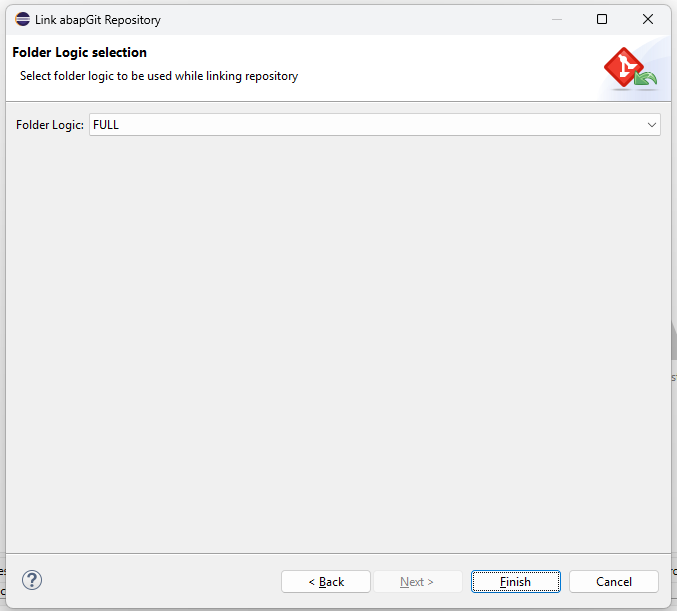
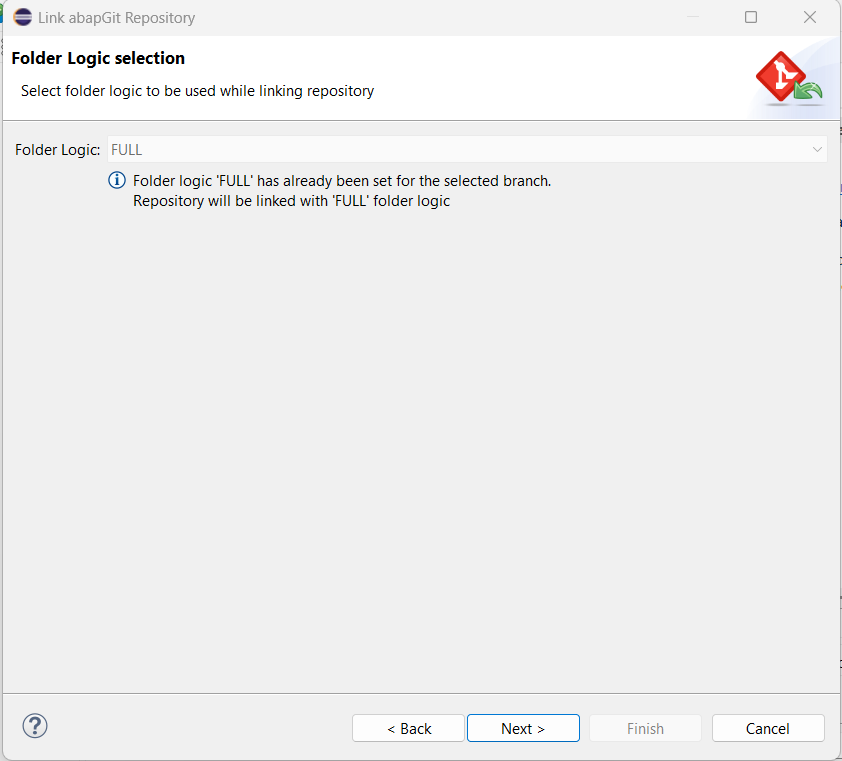
Documentation

diff --git a/README.md b/README.md
@@ -12,27 +12,37 @@ You can install the ABAP AI tools Cloud REST API into your ABAP Cloud system usi
 2. Open the abapGit Repositories view and click the button with the plus sign (Link new abapGit Repository...):
 
 <p style="margin-left: 50px">
-   <img src="docs/images/install1.png" alt="Installation Step 1" width="800px">
+   <img src="docs/images/install1.png" alt="Installation Step 2" width="800px">
 </p>
 
 3. Enter the URL `https://github.com/christianjianelli/yaai_cloud_rest.git`:
 
 <p style="margin-left: 50px">
-   <img src="docs/images/install2.png" alt="Installation Step 2" width="500px">
+   <img src="docs/images/install2.png" alt="Installation Step 3" width="500px">
 </p>
 
 4. Specify the package:
 
 <p style="margin-left: 50px">
-   <img src="docs/images/install3.png" alt="Installation Step 3" width="500px">
+   <img src="docs/images/install3.png" alt="Installation Step 4" width="500px">
 </p>
 
-5. Click the **Finish** button:
+5. Click the **Next** button:
 
 <p style="margin-left: 50px">
-   <img src="docs/images/install4.png" alt="Installation Step 4" width="500px">
+   <img src="docs/images/install4.png" alt="Installation Step 5" width="500px">
 </p>
 
-6. Activate the imported objects as needed.
+6. Select all object and click the **Finish** button:
+
+<p style="margin-left: 50px">
+   <img src="docs/images/install5.png" alt="Installation Step 6" width="500px">
+</p>
+
+7. Activate the imported objects as needed.
+
+<p style="margin-left: 50px">
+   <img src="docs/images/install6.png" alt="Installation Step 7" width="500px">
+</p>
 
 You have now successfully installed the `ABAP AI tools Cloud REST API`.
